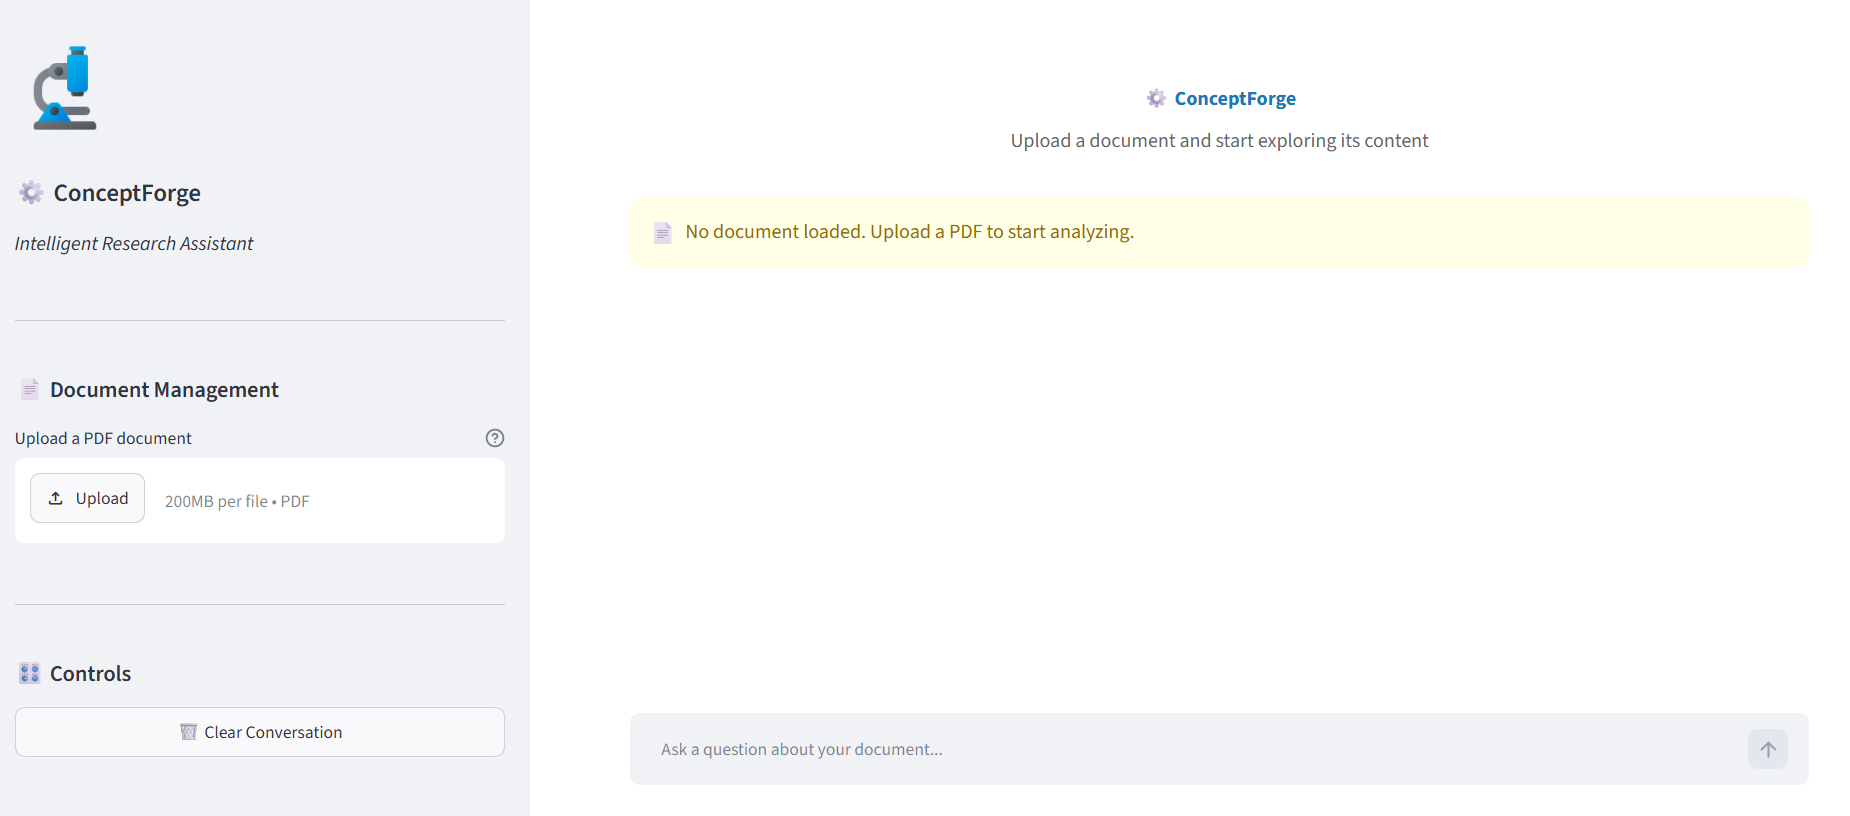
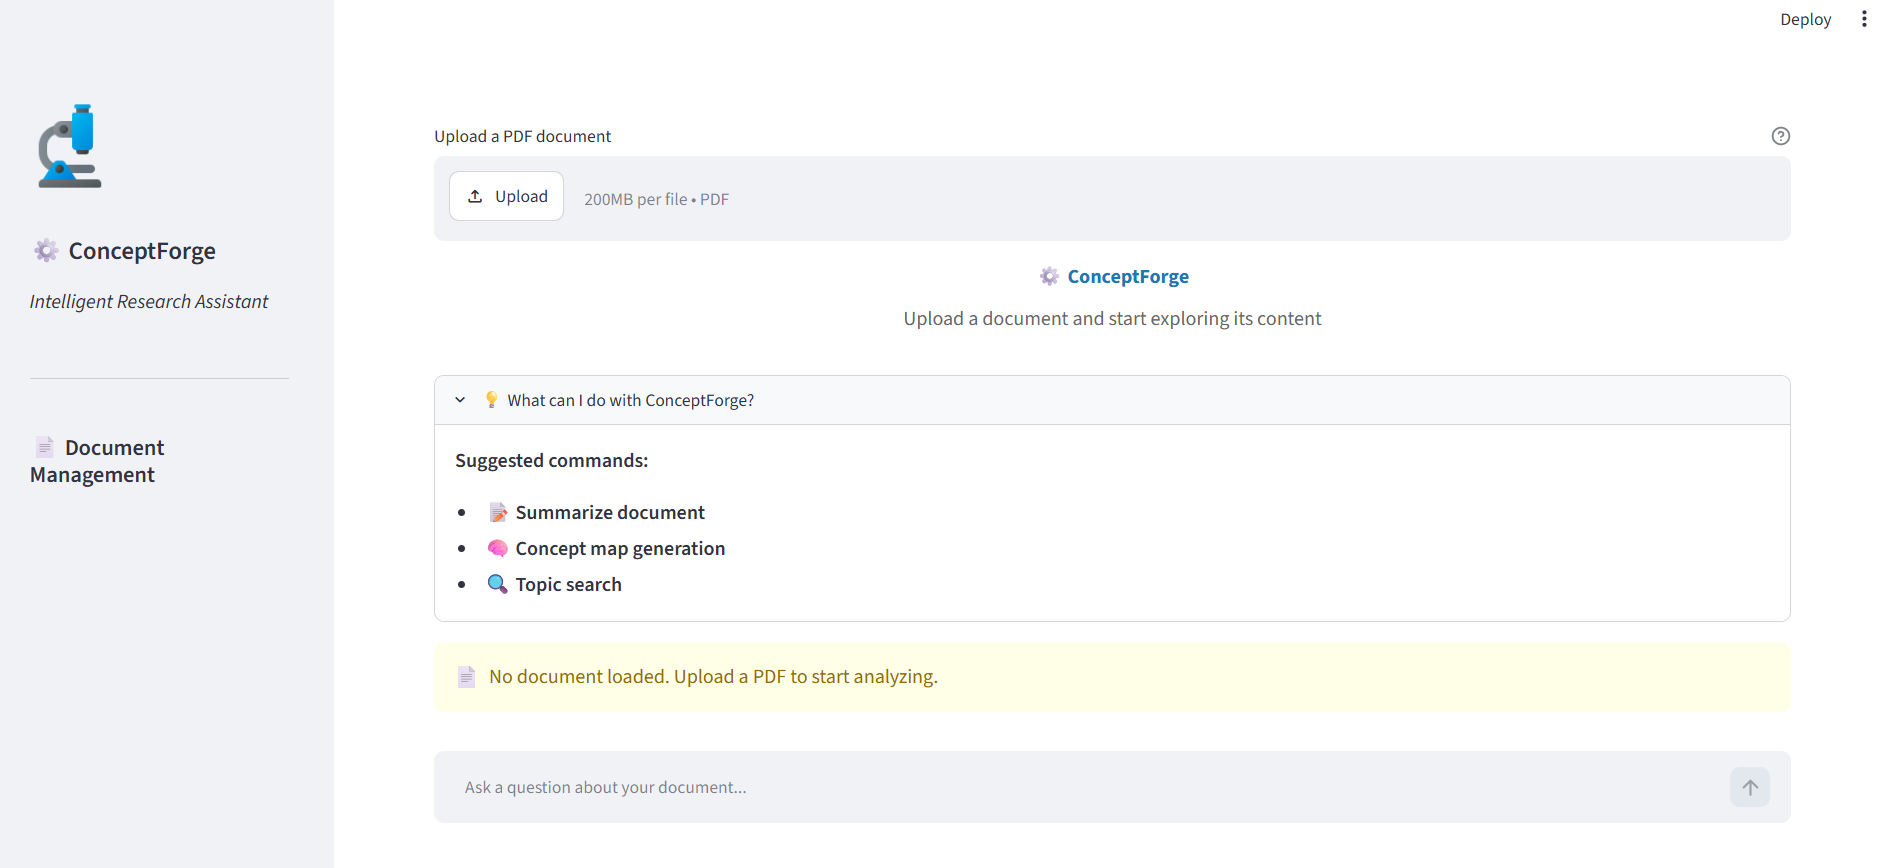
docs: finalize README with complete project documentation
- Add detailed project description, features, and architecture
- Include installation guide, usage examples, and commands
- Add project structure, configuration, and contributing sections
- Prepare space for future screenshots

diff --git a/README.md b/README.md
@@ -1,106 +1,117 @@
 # ⚙ ConceptForge
 
-**ConceptForge** is an intelligent research assistant that combines RAG (Retrieval-Augmented Generation) with MCP (Model Context Protocol) to help you analyze documents, extract insights, and visualize knowledge.
+**ConceptForge** is an intelligent research assistant that combines **RAG (Retrieval-Augmented Generation)** with **MCP (Model Context Protocol)** to help you analyze PDF documents, extract key insights, and visualize knowledge through concept maps.
+
+---
 
 ## 🎯 Features
 
-- 📄 **Document Upload** – Load PDF documents for analysis
+- 📄 **Document Upload** – Load and index PDF documents for analysis
 - 🔍 **Semantic Search** – Find relevant information using natural language
-- 📝 **Smart Summarization** – Generate concise document summaries
-- 🧠 **Concept Mapping** – Visualize key concepts and relationships in Mermaid format
+- 📝 **Smart Summarization** – Generate concise and structured document summaries
+- 🧠 **Concept Mapping** – Visualize key ideas and their relationships in Mermaid format
 - 💬 **Conversational AI** – Interact with your documents through a chat interface
+- 🌍 **Multi-language support** – Interface available in English and Spanish
 
+---
 
 ## 🏗 Architecture
 
 User → Streamlit Interface → LangChain Agent → MCP Server → RAG Engine → Document Index
 
+
 ### Components
 
-| Component | Technology | Purpose |
-|-----------|------------|---------|
-| **RAG Engine** | LangChain, Gemini Embeddings | Document processing and semantic search |
-| **MCP Server** | FastMCP | Exposes tools via Model Context Protocol |
-| **Agent** | LangChain | Orchestrates conversation and tool usage |
-| **Interface** | Streamlit | Web-based chat interface |
+| Component       | Technology                   | Purpose                                        |
+|-----------------|------------------------------|------------------------------------------------|
+| **RAG Engine**  | LangChain, Gemini Embeddings | Document processing and semantic search        |
+| **MCP Server**  | FastMCP                      | Exposes tools via Model Context Protocol       |
+| **Agent**       | LangChain                    | Orchestrates conversation and tool usage       |
+| **Interface**   | Streamlit                    | Web-based chat interface for users             |
 
-## Technologies
+---
+
+## 🛠 Technologies
 
 - [LangChain](https://github.com/langchain-ai/langchain) — Framework for building LLM-powered applications
 - [LangGraph](https://github.com/langchain-ai/langgraph) — State management for multi-agent systems
 - [Google Gemini](https://ai.google.dev/gemini-api) — LLM for embeddings and generation
 - [Streamlit](https://streamlit.io/) — Web interface for the chat application
 - [uv](https://github.com/astral-sh/uv) — Fast Python package management
+- [MCP](https://github.com/modelcontextprotocol) — Model Context Protocol for tool integration
 
-### Installation
+---
 
-## Prerequisites
+## 📸 Screenshots
+
+> **Screenshots coming soon.**  
+> You can see the interface in action by running the application locally.
+
+---
+
+## 🚀 Quick Start
+
+### Prerequisites
 
 - Python 3.12+
 - Google Gemini API Key
-- uv (optional but recommended)
+- `uv` (optional but recommended)
 
-### Setup
+### Installation
 
-1. **Clone the repository:**
-   
+1. **Clone the repository**  
+   ```bash
    git clone https://github.com/Koffre/conceptforge.git
+   cd conceptforge
 
-2. Create a virtual environment: `uv venv`
-   
-3. Activate the environment: `source .venv/Scripts/activate`
-   
-5. Install dependencies: `uv pip install -r requirements.txt`
-   
-6. Configure environment variables: 
-   Create a .env file in the root directory and add your key
+2. Create and activate a virtual environment
+uv venv
+source .venv/Scripts/activate  # On Windows (Git Bash)
 
-## Usage
+3. Install dependencies
+uv pip install -r requirements.txt
 
-### Start the application
+4. Configure environment variables
+Create a .env file in the root directory and add your Google Gemini API key:
+GOOGLE_API_KEY=your_google_api_key_here
+
+## 💻 Usage
+Start the application
 streamlit run src/main.py
-Open http://localhost:8501 in your browser.
 
-### Example Workflow
+Then open http://localhost:8501 in your browser.
 
-1. Upload a PDF document
+## Example Workflow
+Upload a PDF document
+Use the sidebar to upload a file. The system will automatically index it.
 
-2. Wait for indexing (automatic)
+Ask questions
 
-3. Ask questions:
+resume el documento – Get a detailed summary
 
-  "What is the main topic of this document?"
+genera un mapa conceptual – Generate a concept map
 
-  "Summarize the key findings"
+busca información sobre [tema] – Search for specific information
 
-  "Generate a concept map"
+summarize the document – Same commands work in English
 
-  "Find information about [specific topic]"
+Explore insights
+The agent will respond with relevant information, summaries, or Mermaid diagrams.
 
-
-## Project Structure
+## 📁 Project Structure
 
 conceptforge/
 ├── src/
-
 │   ├── __init__.py          # Package exports
-
-│   ├── rag_engine.py        # RAG Engine
-
-│   ├── mcp_server.py        # MCP Server
-
-│   ├── agent.py             # Agent configuration
-
-│   └── main.py              # Streamlit interface
-
-├── samples/                 # Sample PDFs
-
-├── .env                     # Environment variables
-
+│   ├── rag_engine.py        # RAG Engine (PDF loading, splitting, embeddings)
+│   ├── mcp_server.py        # MCP Server (tools exposed via MCP)
+│   ├── agent.py             # Agent configuration and middleware
+│   └── main.py              # Streamlit interface entry point
+├── samples/                 # Sample PDF documents
+├── docs/                    # Documentation and screenshots (optional)
+├── .env                     # Environment variables (not in repo)
 ├── .gitignore               # Ignored files
-
 ├── README.md                # Project documentation
-
 └── requirements.txt         # Python dependencies
 
 
@@ -109,12 +120,14 @@ Create a .env file with your API keys:
 
 GOOGLE_API_KEY=your_google_api_key_here
 
+
 ## 🤝 Contributing
 Contributions are welcome! Please open an issue or submit a pull request.
 
 
-##📄 License
+## 📄 License
 This project is licensed under the MIT License.
+See the LICENSE file for more details.
 
 
 ## Author
@@ -129,3 +142,6 @@ Joffre Sanchez  - https://github.com/Koffre
 - Google for Gemini API
 
 - Open-source community for the tools and libraries
+
+## 📬 Contact
+If you have questions, suggestions, or feedback, feel free to open an issue or reach out via GitHub
